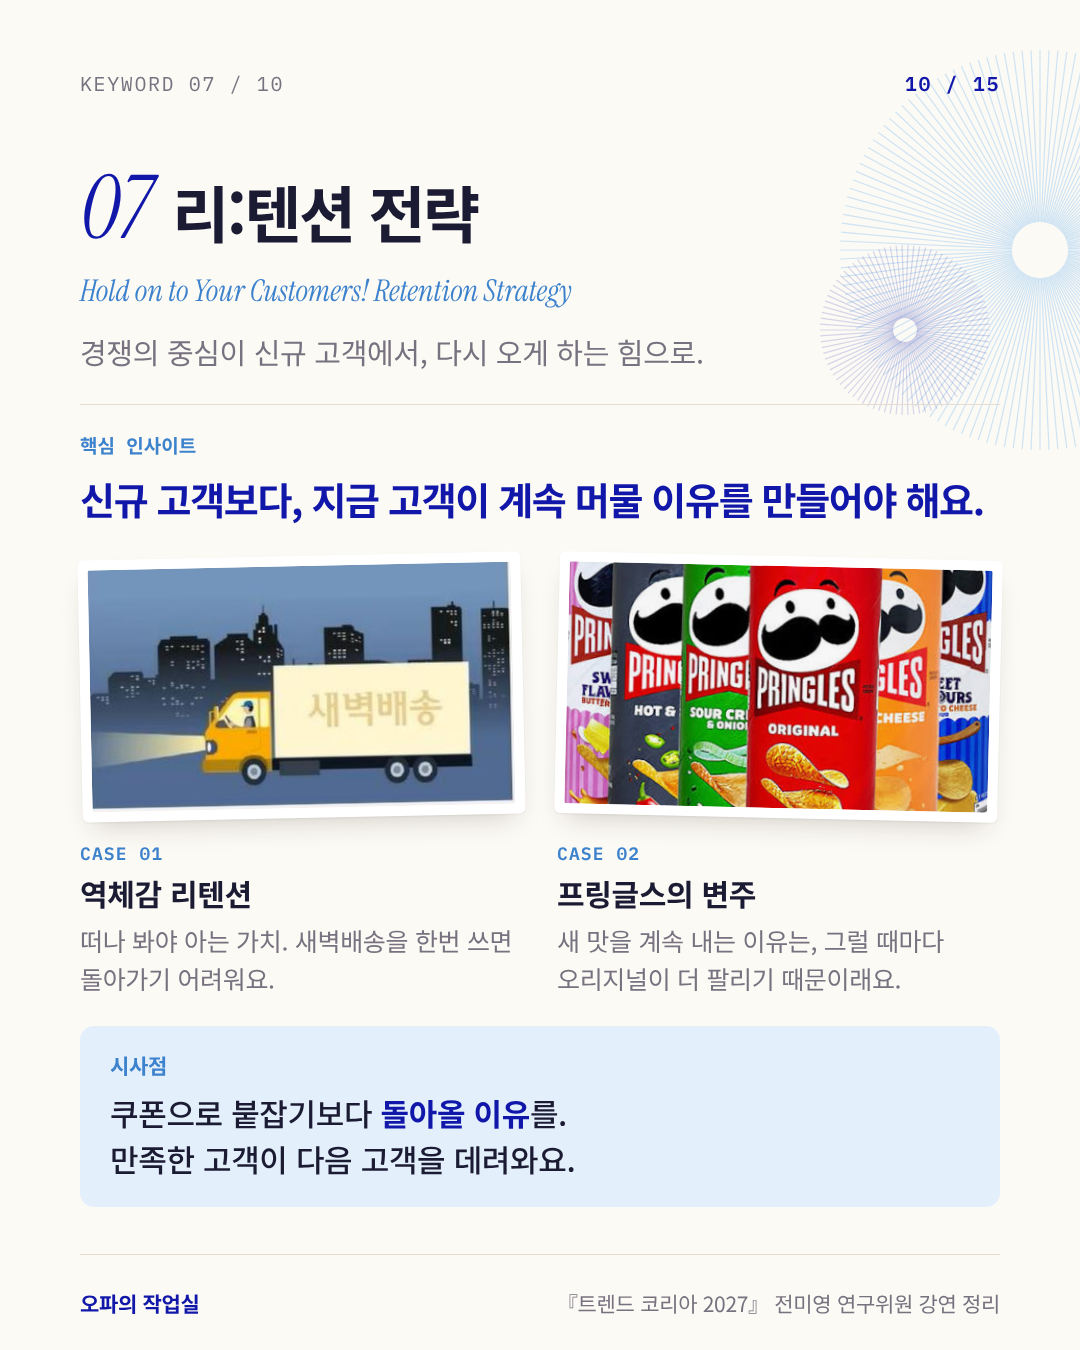
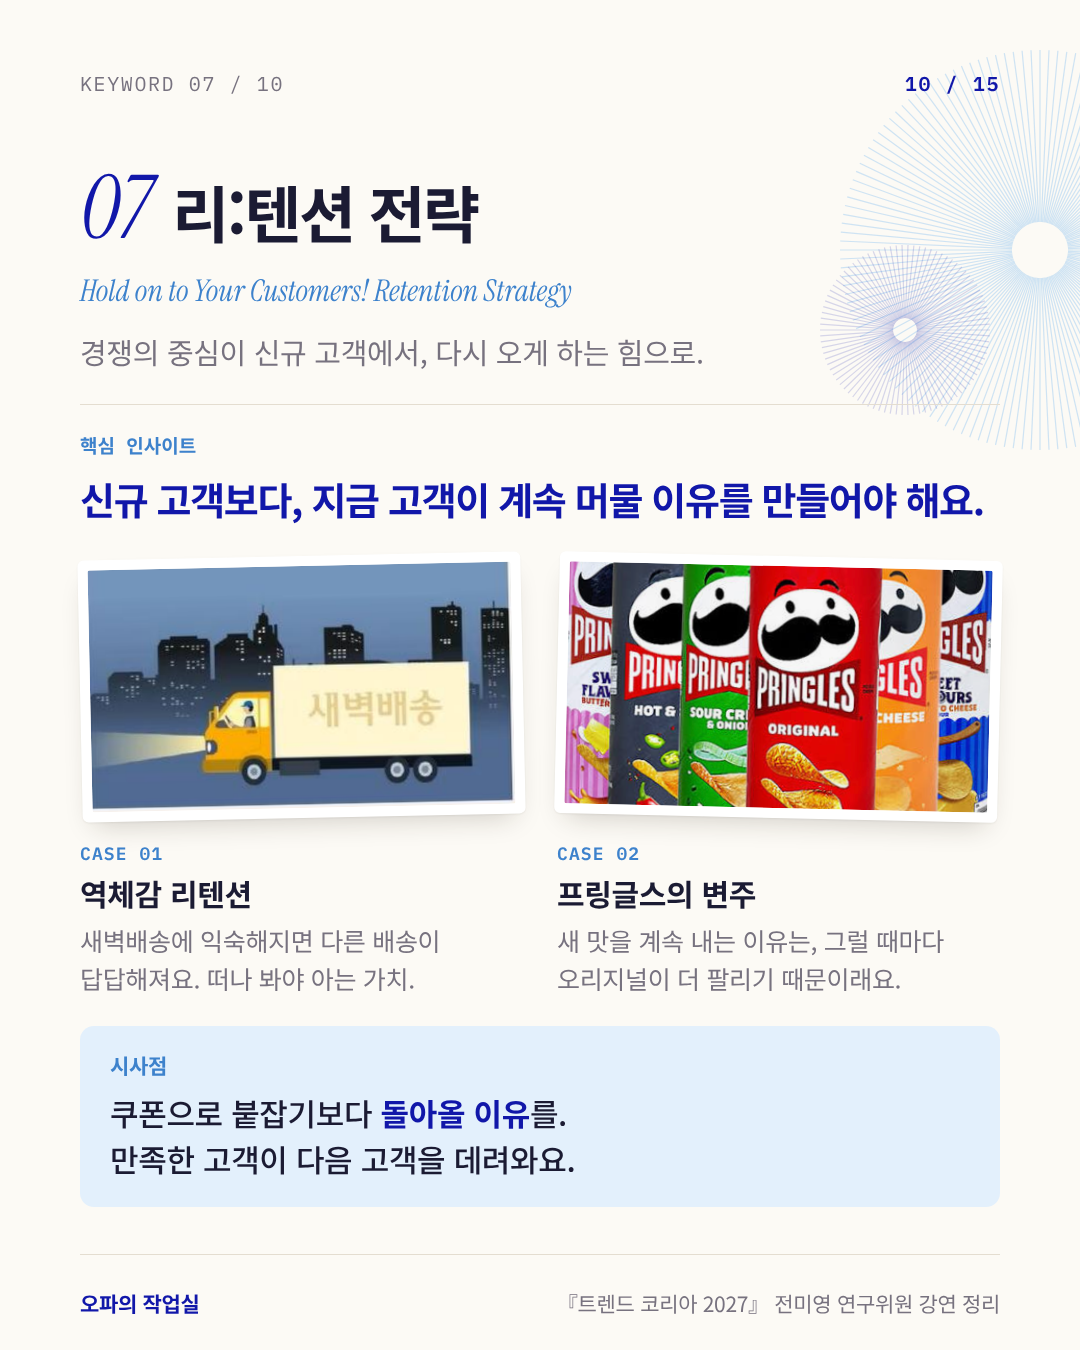
리텐션 카드: 역체감 사례 설명을 새벽배송 예시로 풀어 씀
Claude-Session: https://claude.ai/code/session_016hvv34jPWo253fQY5tLEVV

Changed region(s): [[0.0611, 0.6844, 0.4889, 0.7467]]

diff --git a/cardnews/trend-korea-2027/full2/full.html b/cardnews/trend-korea-2027/full2/full.html
@@ -134,7 +134,7 @@
   <div class="lab">핵심 인사이트</div>
   <h3>신규 고객보다, 지금 고객이 계속 머물 이유를 만들어야 해요.</h3>
   <div class="cases"><div class="case"><div class="ph "><img src="../img/dawn.png" alt=""></div><div class="cl">CASE 01</div>
-      <div class="ch">역체감 리텐션</div><div class="cd">떠나 봐야 아는 가치. 새벽배송을 한번 쓰면 돌아가기 어려워요.</div></div><div class="case"><div class="ph "><img src="../img/pringles.png" alt=""></div><div class="cl">CASE 02</div>
+      <div class="ch">역체감 리텐션</div><div class="cd">새벽배송에 익숙해지면 다른 배송이 답답해져요. 떠나 봐야 아는 가치.</div></div><div class="case"><div class="ph "><img src="../img/pringles.png" alt=""></div><div class="cl">CASE 02</div>
       <div class="ch">프링글스의 변주</div><div class="cd">새 맛을 계속 내는 이유는, 그럴 때마다 오리지널이 더 팔리기 때문이래요.</div></div></div>
   <div class="beauty"><span>시사점</span>쿠폰으로 붙잡기보다 <b>돌아올 이유</b>를.<br>만족한 고객이 다음 고객을 데려와요.</div>
   <div class="foot"><span>오파의 작업실</span><span>『트렌드 코리아 2027』 전미영 연구위원 강연 정리</span></div>

diff --git a/cardnews/trend-korea-2027/full2/build.py b/cardnews/trend-korea-2027/full2/build.py
@@ -79,7 +79,7 @@ KW = [
      '우수 사례 경진대회 대신 <b>실패 사례</b>를 모으세요.<br>그게 팀의 학습이 돼요.'),
     ('07', '리:텐션 전략', 'Hold on to Your Customers! Retention Strategy', '경쟁의 중심이 신규 고객에서, 다시 오게 하는 힘으로.',
      '신규 고객보다, 지금 고객이 계속 머물 이유를 만들어야 해요.',
-     [('dawn', '역체감 리텐션', '떠나 봐야 아는 가치. 새벽배송을 한번 쓰면 돌아가기 어려워요.'),
+     [('dawn', '역체감 리텐션', '새벽배송에 익숙해지면 다른 배송이 답답해져요. 떠나 봐야 아는 가치.'),
       ('pringles', '프링글스의 변주', '새 맛을 계속 내는 이유는, 그럴 때마다 오리지널이 더 팔리기 때문이래요.')],
      '쿠폰으로 붙잡기보다 <b>돌아올 이유</b>를.<br>만족한 고객이 다음 고객을 데려와요.'),
     ('08', '휴먼엣지', 'Every AI Needs the Human Edge', 'AI가 결과를 쉽게 만드는 시대, 사람의 경험·손길·시간이 차별화가 된다.',
